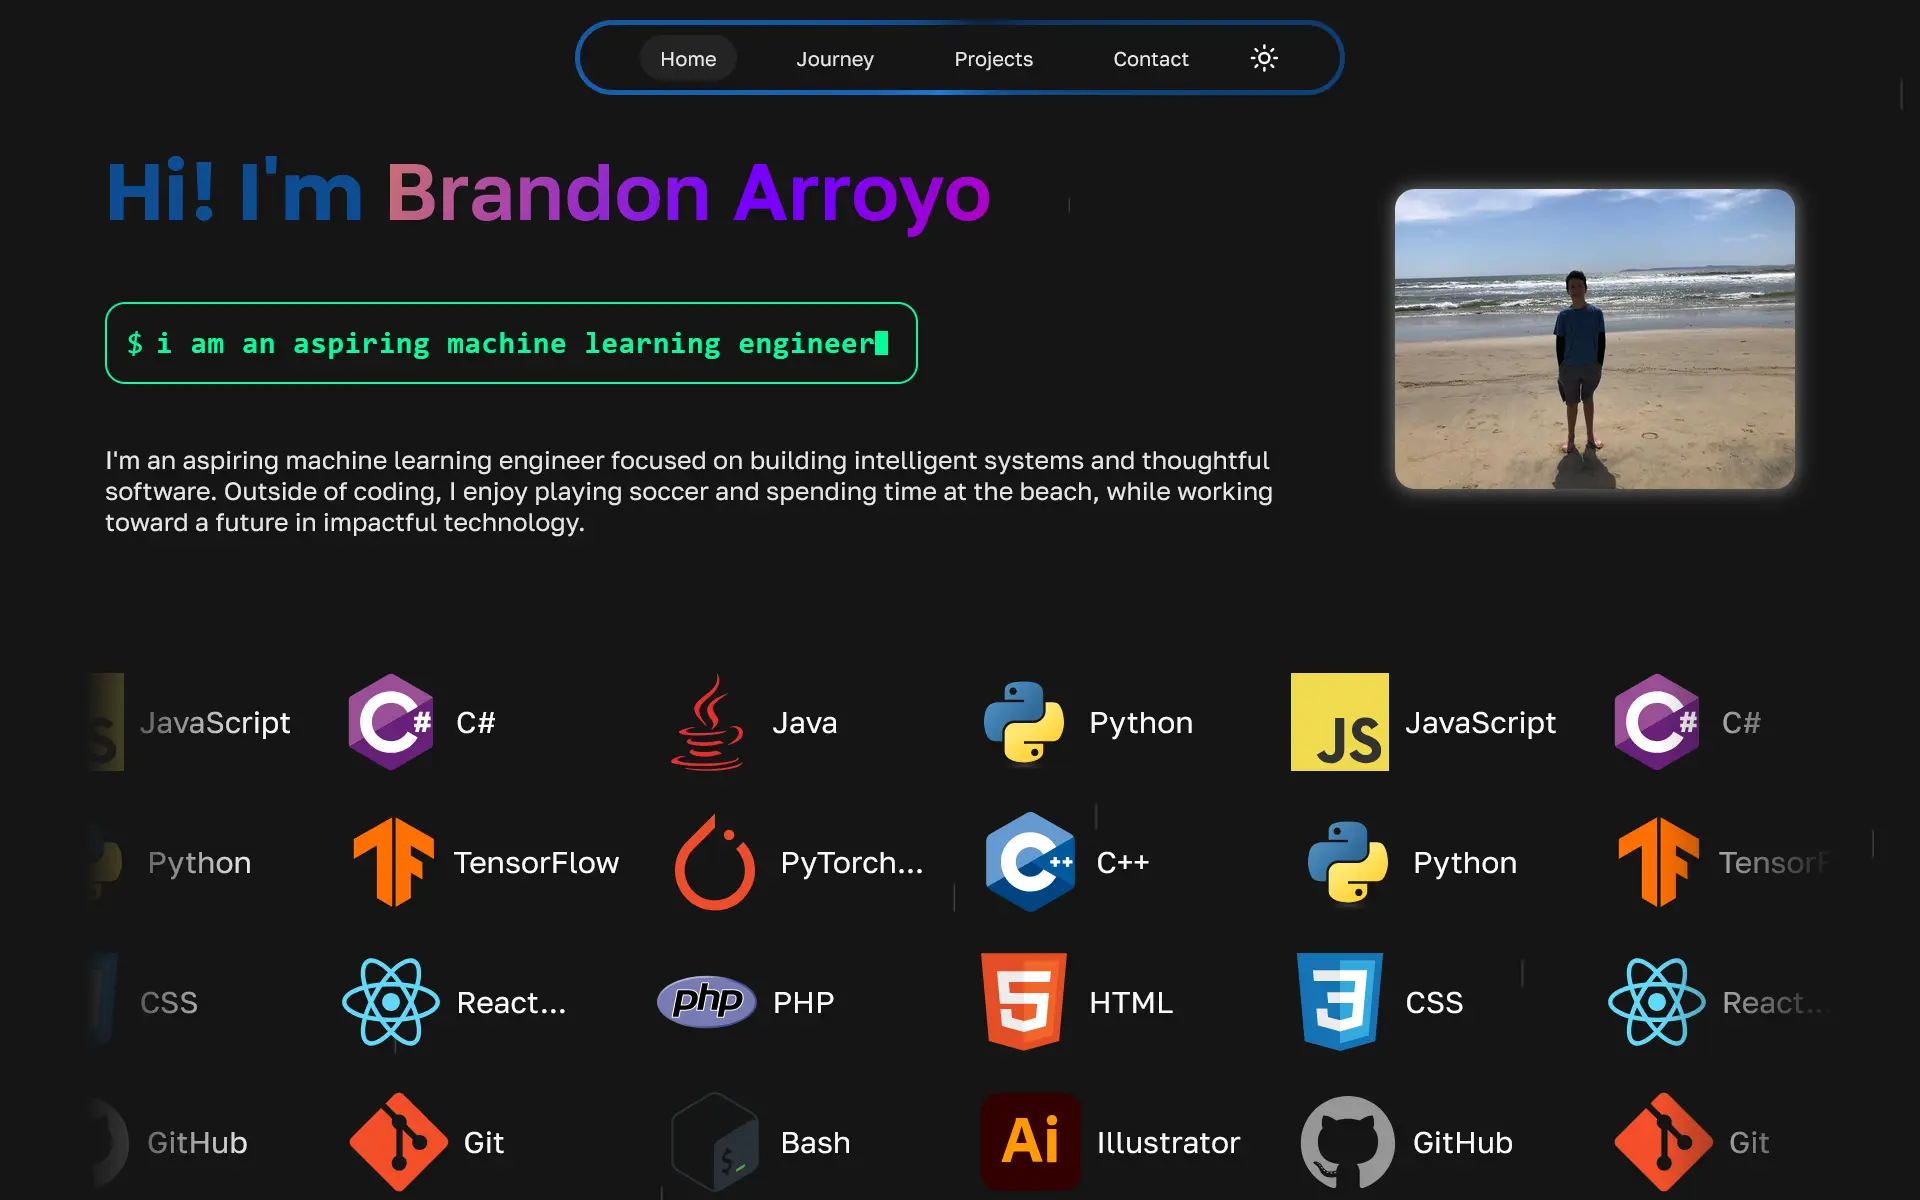
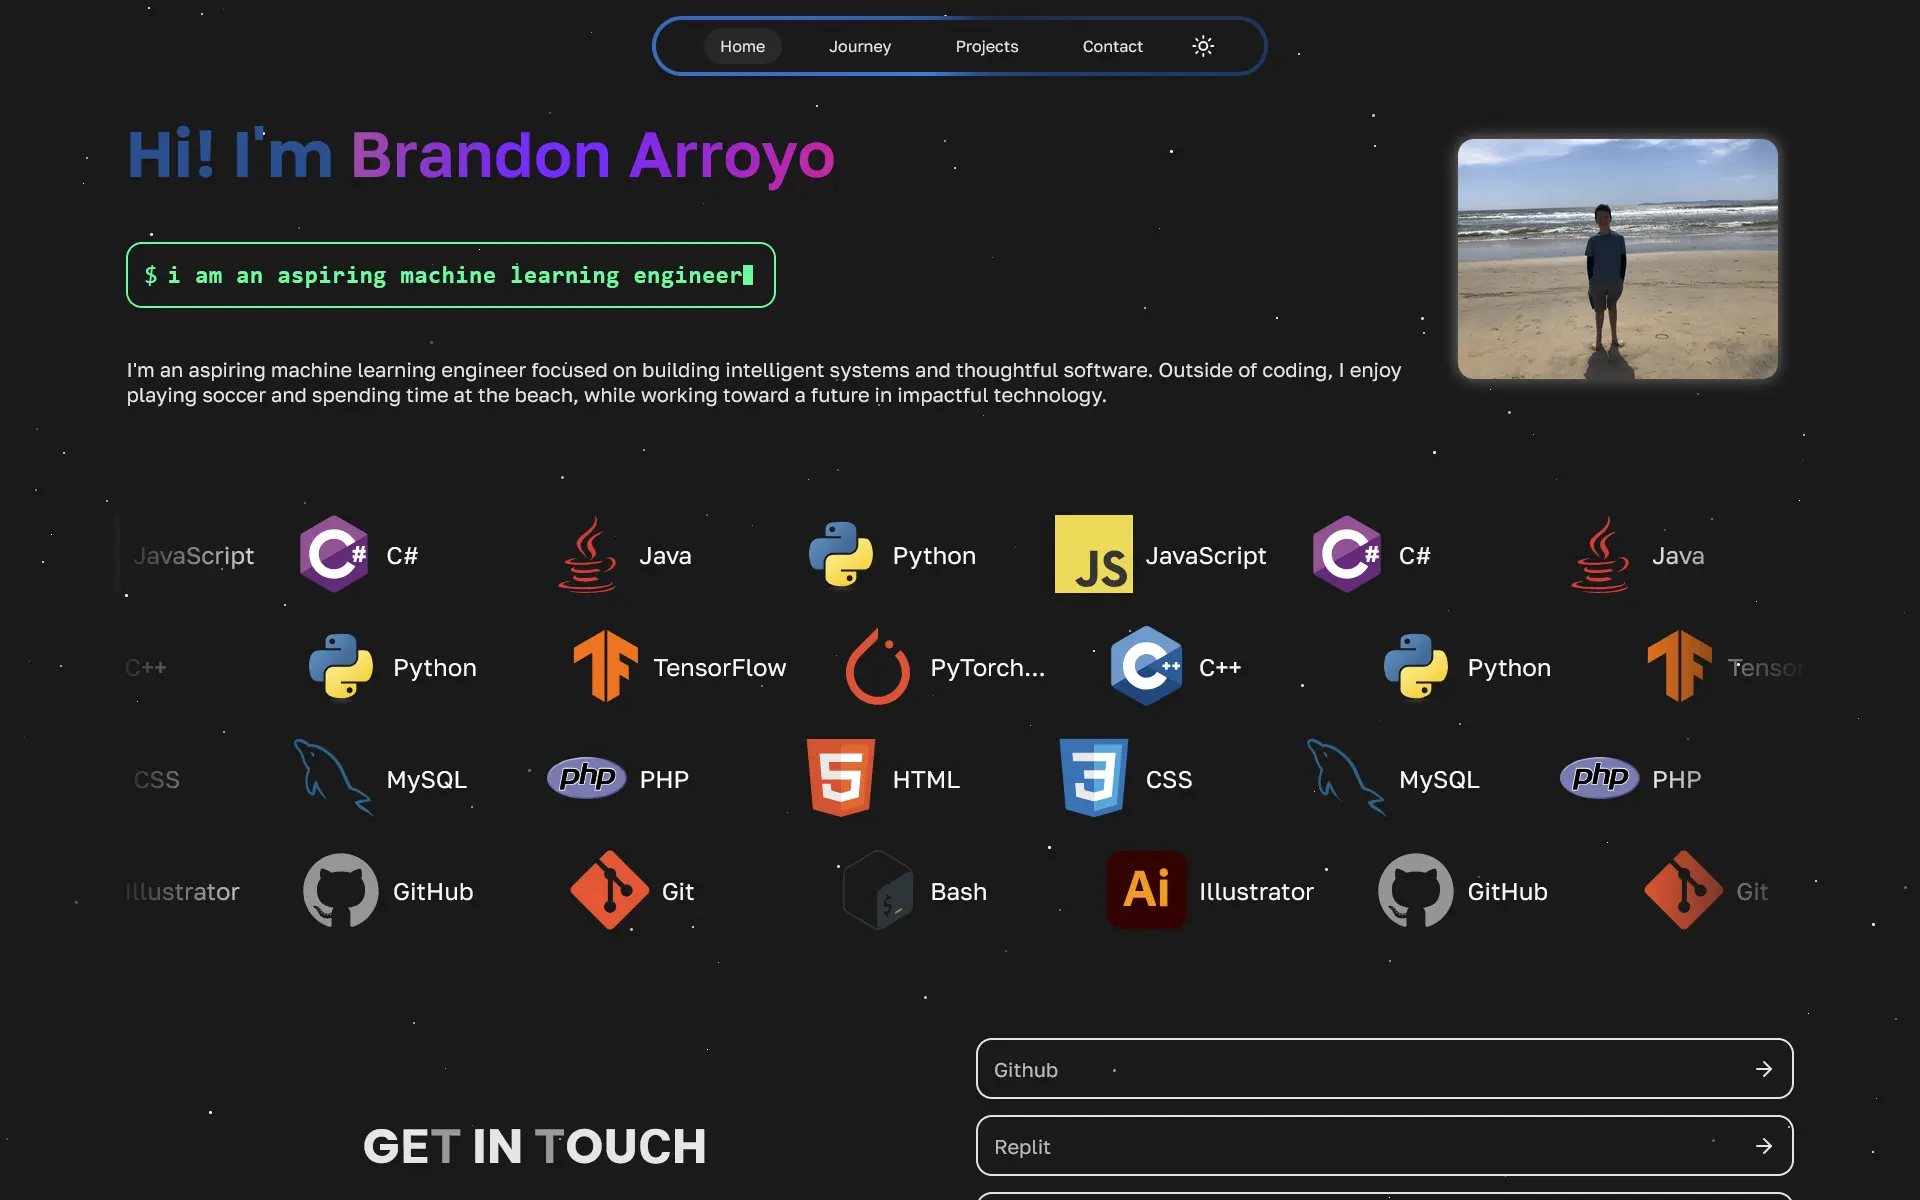
Add CSE 340 service network project, update developer portfolio image, add new filters, and small style tweak to project border

diff --git a/styles/small.css b/styles/small.css
@@ -1059,6 +1059,8 @@ nav ul li a:hover {
   padding: 1rem;
 }
 .project-content h2 {
+  text-align: center;
+
   width: fit-content;
 
   padding: 0.25rem 0.5rem;
@@ -1073,7 +1075,7 @@ nav ul li a:hover {
   align-items: center;
   justify-content: space-evenly;
   flex-wrap: wrap;
-  gap: 0.25rem;
+  gap: 0.375rem;
 }
 .project-content .stack span {
   display: block;
@@ -1203,8 +1205,6 @@ nav ul li a:hover {
   object-fit: cover;
   object-position: top;
 
-  border: 2px solid var(--headers);
-  border-bottom: 2px solid var(--headers);
   border-radius: 1rem;
 }
 

diff --git a/scripts/projects.js b/scripts/projects.js
@@ -39,7 +39,7 @@ async function getProjects() {
 //#region Setup Filters
 function setupFilters() {
   const container = document.querySelector(".filters")
-  const filters = ["All", "HTML", "CSS", "JavaScript", "Python", "Java", "C#", "C++", "PHP", "JSON", "API"];
+  const filters = ["All", "HTML", "CSS", "JavaScript", "EJS", "Node.js", "Express.js", "Python", "Java", "C#", "C++", "PHP", "JSON", "API", "SQL", "PostgreSQL"];
 
   filters.forEach(filter => {
     const button = document.createElement("button");
